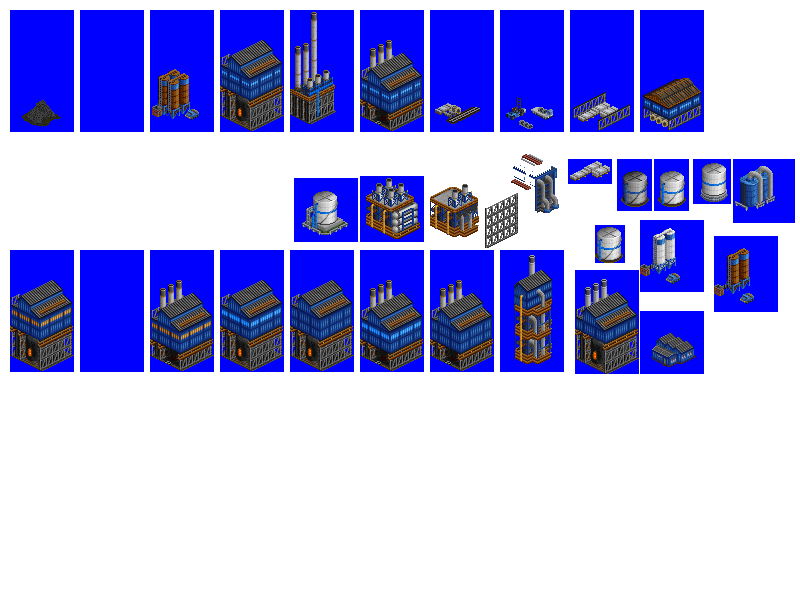
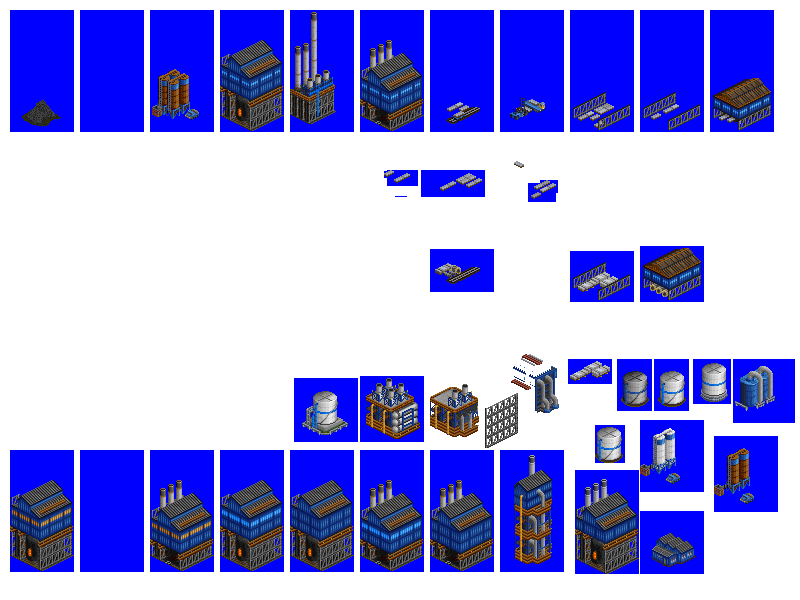
Change: improved steel slab sprites for Basic Oxygen Furnace

diff --git a/src/industries/basic_oxygen_furnace.py b/src/industries/basic_oxygen_furnace.py
@@ -73,8 +73,11 @@ spriteset_metal_2 = industry.add_spriteset(
 spriteset_metal_3 = industry.add_spriteset(
     sprites=[(570, 10, 64, 122, -31, -90)],
 )
-spriteset_shed = industry.add_spriteset(
+spriteset_metal_4 = industry.add_spriteset(
     sprites=[(640, 10, 64, 122, -31, -90)],
+)
+spriteset_shed = industry.add_spriteset(
+    sprites=[(710, 10, 64, 122, -31, -90)],
 )
 sprite_smoke_1 = industry.add_smoke_sprite(
     smoke_type="white_smoke_big",
@@ -155,6 +158,13 @@ industry.add_spritelayout(
     fences=["nw", "ne", "se", "sw"],
 )
 industry.add_spritelayout(
+    id="basic_oxygen_furnace_spritelayout_metal_4",
+    ground_sprite=spriteset_ground,
+    ground_overlay=spriteset_ground_overlay,
+    building_sprites=[spriteset_metal_4],
+    fences=["nw", "ne", "se", "sw"],
+)
+industry.add_spritelayout(
     id="basic_oxygen_furnace_spritelayout_shed",
     ground_sprite=spriteset_ground,
     ground_overlay=spriteset_ground_overlay,
@@ -220,7 +230,7 @@ industry.add_industry_layout(
             1,
             4,
             "basic_oxygen_furnace_tile_1",
-            "basic_oxygen_furnace_spritelayout_metal_3",
+            "basic_oxygen_furnace_spritelayout_metal_4",
         ),
         (
             1,
@@ -256,7 +266,7 @@ industry.add_industry_layout(
             2,
             4,
             "basic_oxygen_furnace_tile_1",
-            "basic_oxygen_furnace_spritelayout_metal_3",
+            "basic_oxygen_furnace_spritelayout_empty",
         ),
         (
             2,
@@ -292,13 +302,13 @@ industry.add_industry_layout(
             3,
             4,
             "basic_oxygen_furnace_tile_1",
-            "basic_oxygen_furnace_spritelayout_metal_3",
+            "basic_oxygen_furnace_spritelayout_metal_4",
         ),
         (
             3,
             5,
             "basic_oxygen_furnace_tile_1",
-            "basic_oxygen_furnace_spritelayout_metal_3",
+            "basic_oxygen_furnace_spritelayout_metal_4",
         ),
     ],
 )
@@ -388,7 +398,7 @@ industry.add_industry_layout(
             2,
             4,
             "basic_oxygen_furnace_tile_1",
-            "basic_oxygen_furnace_spritelayout_metal_3",
+            "basic_oxygen_furnace_spritelayout_metal_4",
         ),
         (
             3,
@@ -418,7 +428,7 @@ industry.add_industry_layout(
             3,
             4,
             "basic_oxygen_furnace_tile_1",
-            "basic_oxygen_furnace_spritelayout_metal_3",
+            "basic_oxygen_furnace_spritelayout_empty",
         ),
         (4, 0, "basic_oxygen_furnace_tile_1", "basic_oxygen_furnace_spritelayout_shed"),
         (4, 1, "basic_oxygen_furnace_tile_1", "basic_oxygen_furnace_spritelayout_shed"),
@@ -539,7 +549,7 @@ industry.add_industry_layout(
             3,
             0,
             "basic_oxygen_furnace_tile_1",
-            "basic_oxygen_furnace_spritelayout_metal_3",
+            "basic_oxygen_furnace_spritelayout_metal_4",
         ),
         (
             3,
@@ -577,7 +587,7 @@ industry.add_industry_layout(
             4,
             3,
             "basic_oxygen_furnace_tile_1",
-            "basic_oxygen_furnace_spritelayout_metal_3",
+            "basic_oxygen_furnace_spritelayout_metal_4",
         ),
         (
             4,
@@ -678,7 +688,7 @@ industry.add_industry_layout(
             3,
             2,
             "basic_oxygen_furnace_tile_1",
-            "basic_oxygen_furnace_spritelayout_metal_3",
+            "basic_oxygen_furnace_spritelayout_empty",
         ),
         (
             3,
@@ -702,14 +712,14 @@ industry.add_industry_layout(
             4,
             2,
             "basic_oxygen_furnace_tile_1",
-            "basic_oxygen_furnace_spritelayout_metal_3",
+            "basic_oxygen_furnace_spritelayout_empty",
         ),
         (4, 3, "basic_oxygen_furnace_tile_1", "basic_oxygen_furnace_spritelayout_shed"),
         (
             5,
             0,
             "basic_oxygen_furnace_tile_1",
-            "basic_oxygen_furnace_spritelayout_metal_3",
+            "basic_oxygen_furnace_spritelayout_metal_4",
         ),
         (
             5,
